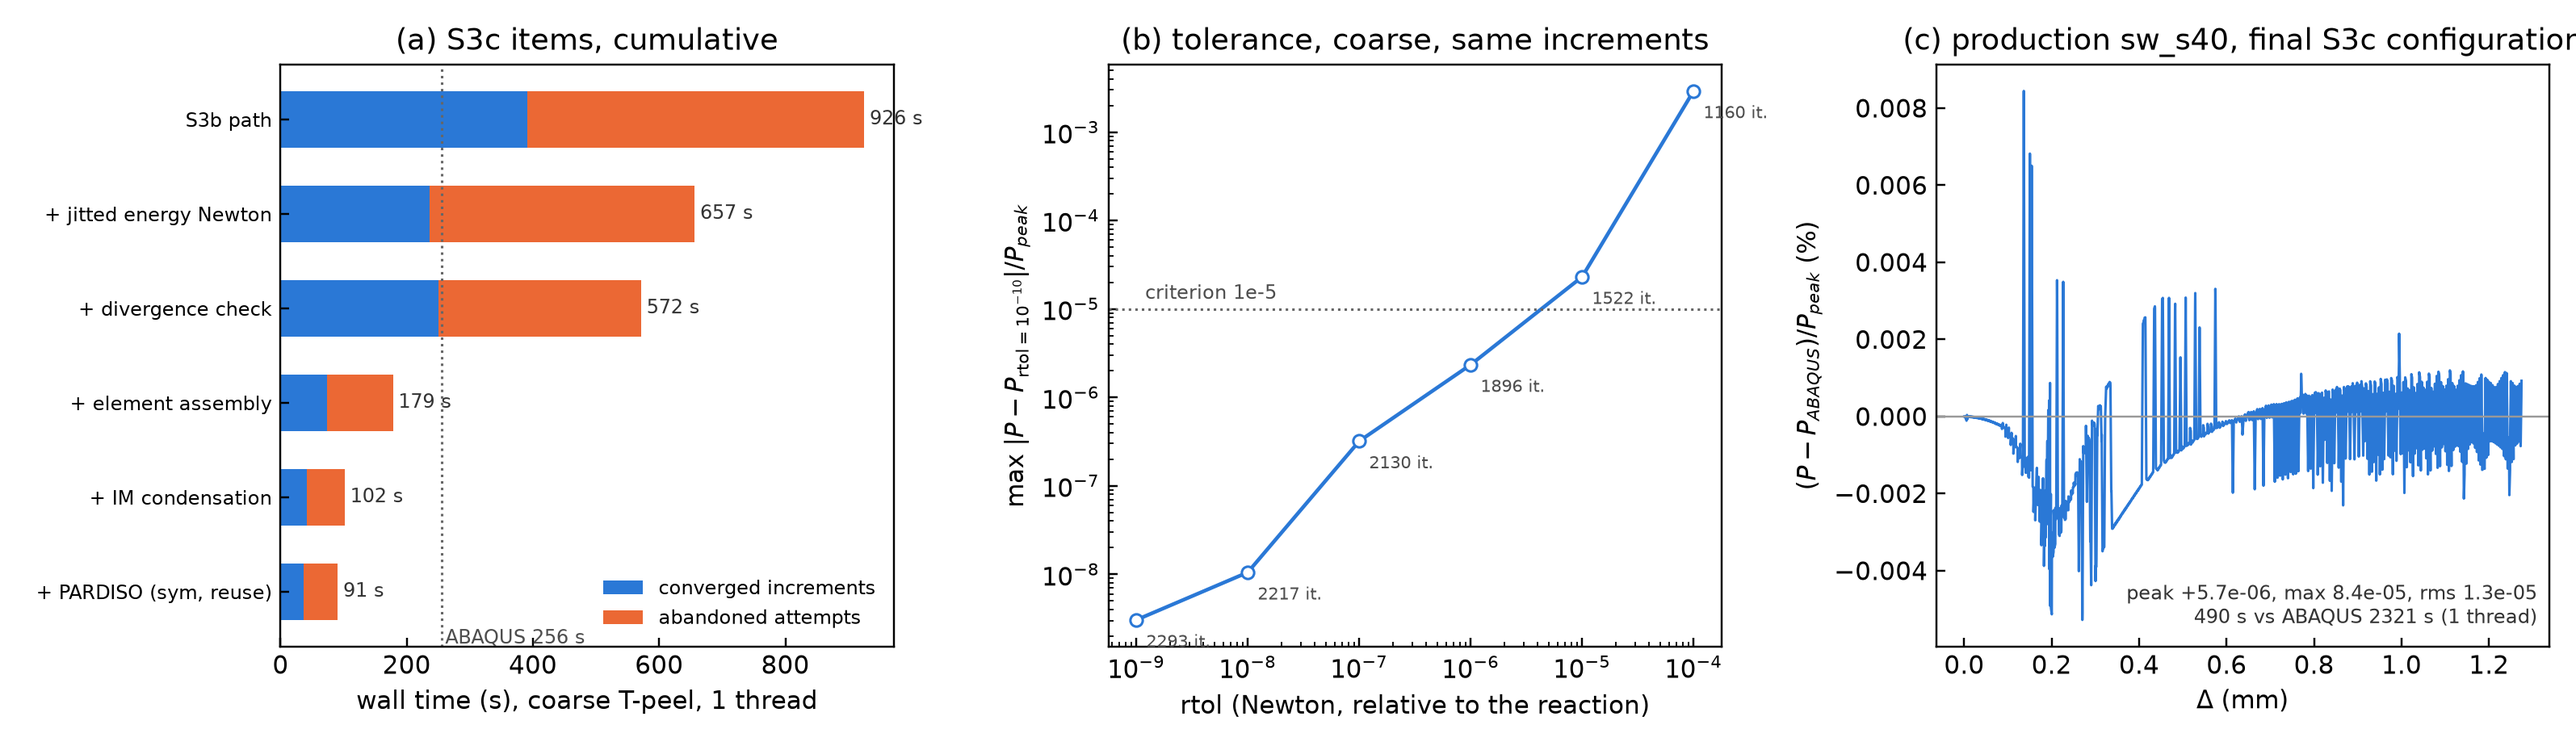
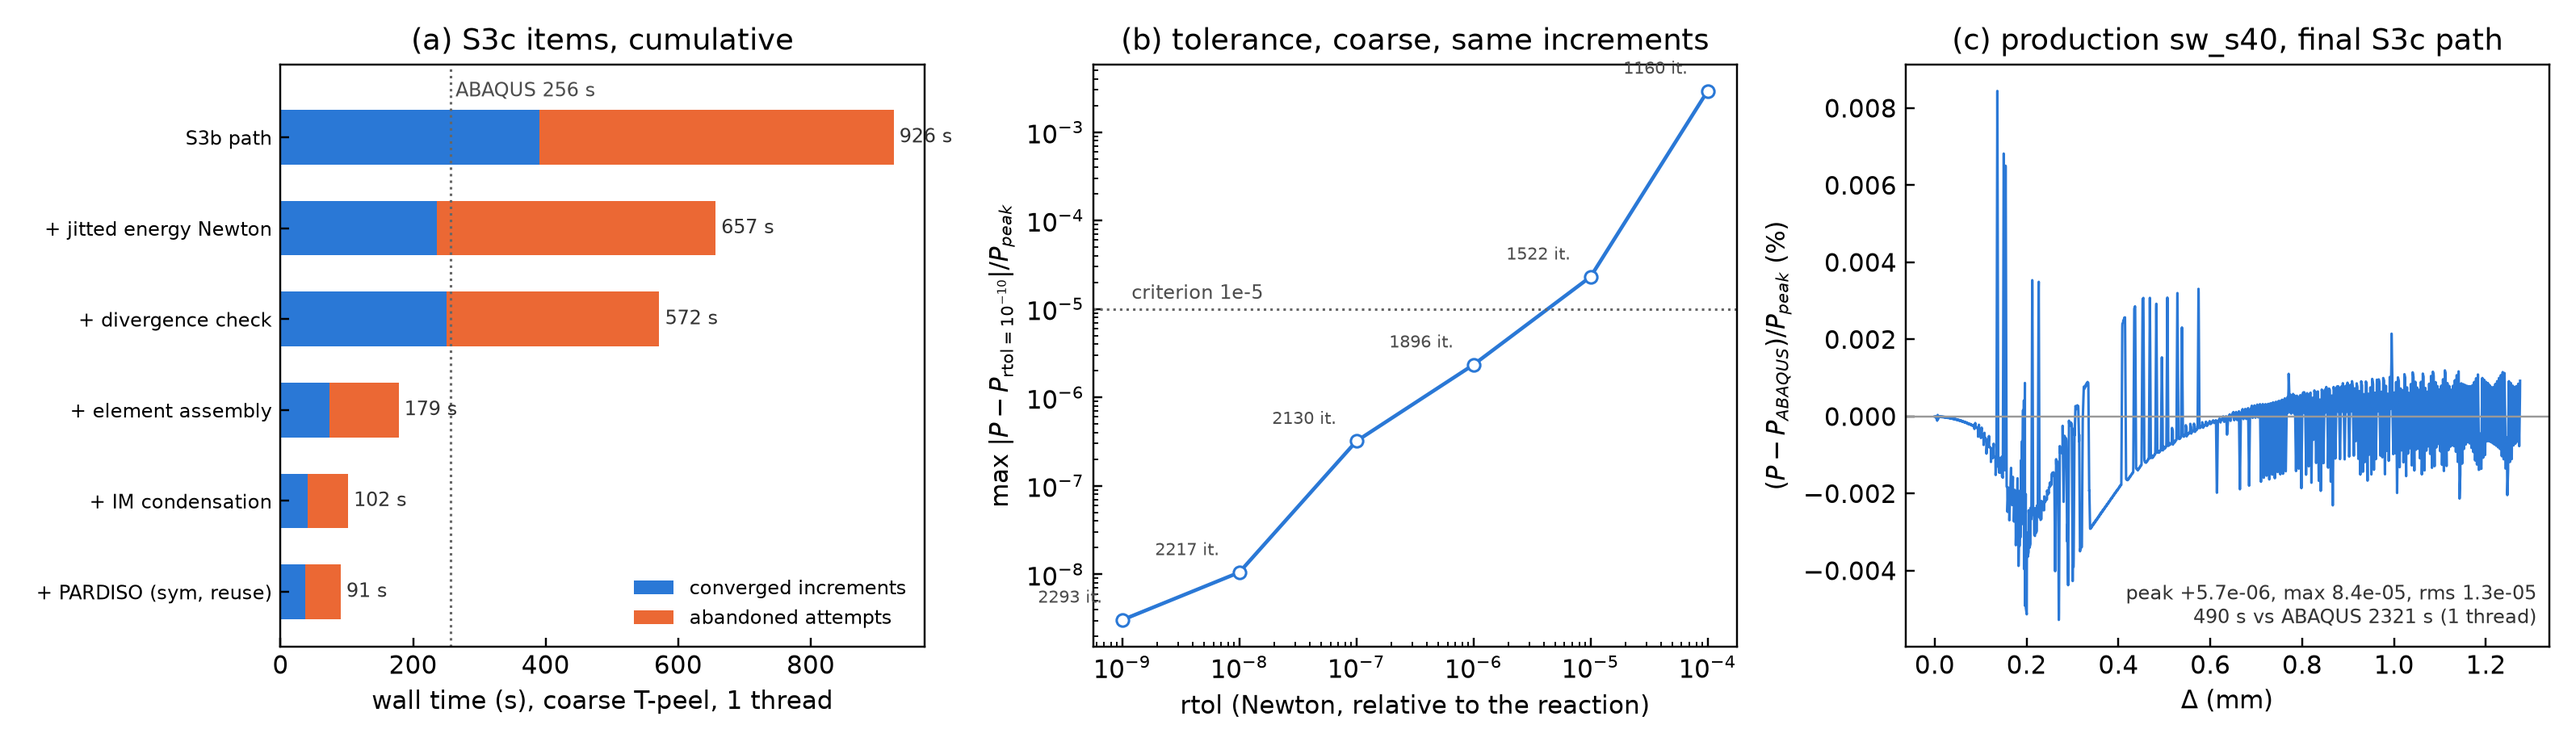
s3c figure: first label

diff --git a/scripts/fe/s3c_plot.py b/scripts/fe/s3c_plot.py
@@ -117,8 +117,9 @@ err = [float(tol[f"tol_{r}_rep"]["max_dP_ref_same_t_win"]) for r in rt]
 its = [int(float(tol[f"tol_{r}_rep"]["newton_total"])) for r in rt]
 ax[1].loglog([float(r) for r in rt], err, marker="o", ms=5, lw=1.5, color=C[0], mfc="w")
 for r, e_, n in zip(rt, err, its):
-    ax[1].annotate("%d it." % n, (float(r), e_), textcoords="offset points", xytext=(-8, 7), fontsize=7, color="0.3",
-                   ha="right")
+    first = r == rt[0]
+    ax[1].annotate("%d it." % n, (float(r), e_), textcoords="offset points", xytext=(8, -3) if first else (-8, 7),
+                   fontsize=7, color="0.3", ha="left" if first else "right")
 ax[1].axhline(1e-5, color="0.4", ls=":", lw=1)
 ax[1].text(1.2e-9, 1.3e-5, "criterion 1e-5", fontsize=8, color="0.3")
 ax[1].set(xlabel="rtol (Newton, relative to the reaction)",
